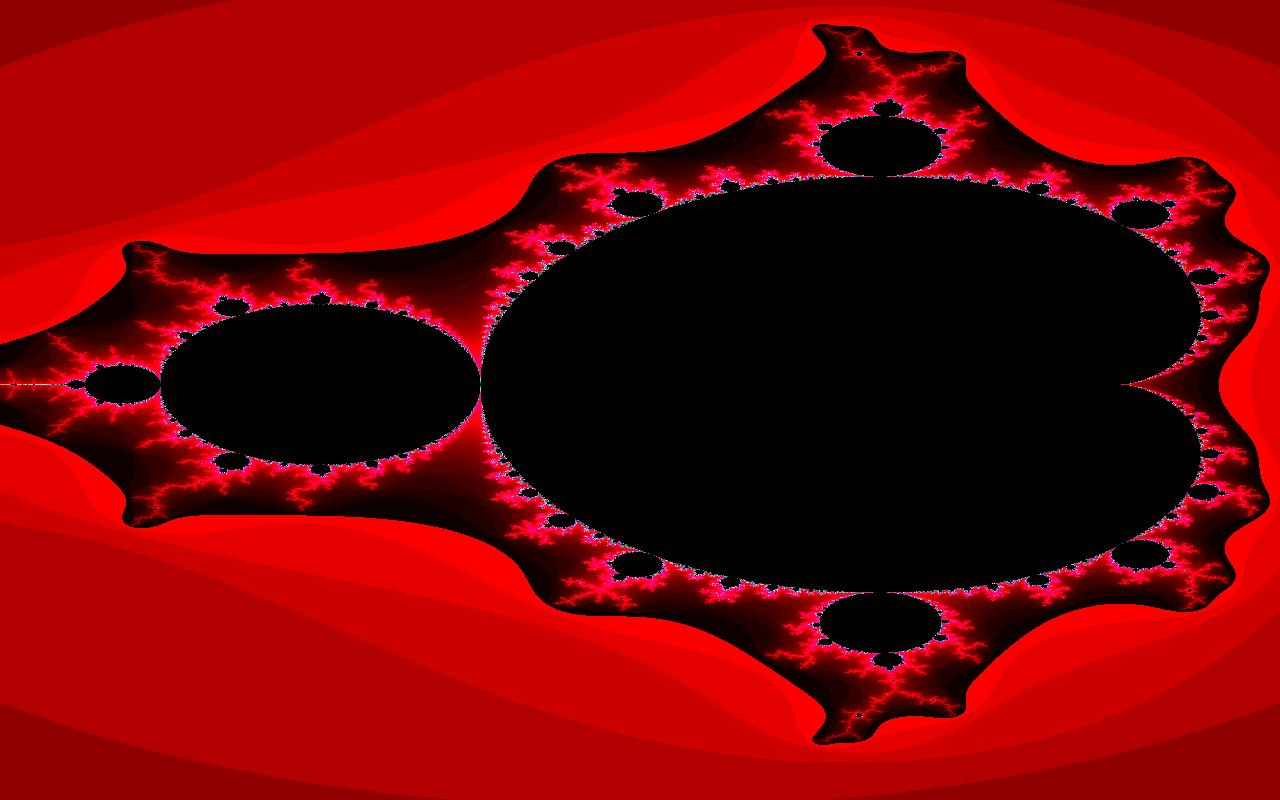
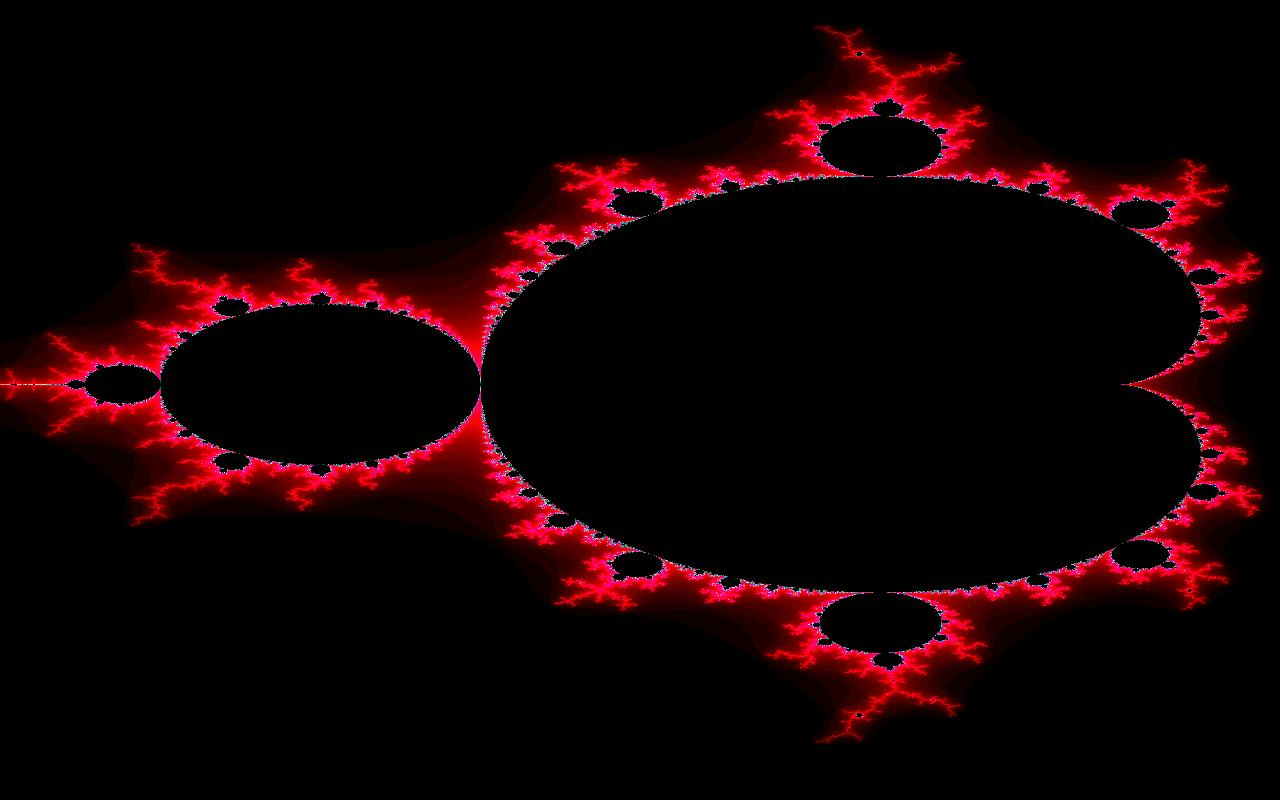
iug

diff --git a/src/main/java/com/example/App.java b/src/main/java/com/example/App.java
@@ -1,15 +1,9 @@
 package com.example;
 
 import java.time.Duration;
-import java.time.Instant;
-import java.time.temporal.ChronoUnit;
-import java.util.ArrayList;
-import java.util.List;
-import java.util.concurrent.Future;
 import java.util.concurrent.TimeUnit;
 import java.time.LocalTime;
 import java.time.format.DateTimeFormatter;
-import java.util.concurrent.Executor;
 import java.util.concurrent.ExecutorService;
 import java.util.concurrent.Executors;
 
@@ -34,9 +28,9 @@ public final class App {
     private static final int CONCURRENT_THREADS = 4;
     
 
-    private static final double STARTX = -1.5;
-    private static final double ENDX = 0.5;
-    private static final double STARTY = -1.2;
+    private static final double START_X = -1.5;
+    private static final double END_X = 0.5;
+    private static final double START_Y = -1.2;
 
     private static int img_width = WIDTH; 
     private static int img_height = THREADS * HEIGHT;
@@ -50,38 +44,45 @@ public final class App {
         int [][] iterations = new int[img_width][img_height];
         
 
-        double width = ENDX - STARTX;
+        double width = END_X - START_X;
         double height = width * ((double)HEIGHT/WIDTH) * 2.0;
 
         LocalTime startTime = LocalTime.now();
         DateTimeFormatter formatter = DateTimeFormatter.ofPattern("hh:mm:ss");
         System.out.println("Start time : " + startTime.format(formatter));
 
-        ExecutorService executer = Executors.newFixedThreadPool(CONCURRENT_THREADS);
+        ExecutorService executor = Executors.newFixedThreadPool(CONCURRENT_THREADS);
 
-        Mandelbrot mandie;
+
+
+        Mandelbrot mandelbrotSlice;        
         for (int thread = 0; thread < THREADS; thread++) {
-            double threadStartY = STARTY + thread * height;
-            double threadEndY = STARTY + (thread+1) * height;
-            mandie = new Mandelbrot(WIDTH, HEIGHT, thread, STARTX, ENDX, threadStartY, threadEndY, iterations);
-            //mandie.run();
-            executer.execute(mandie);
+            double threadSTART_Y = START_Y + thread * height;
+            double threadEndY = START_Y + (thread+1) * height;
+            mandelbrotSlice = new Mandelbrot(WIDTH, HEIGHT, thread, START_X, END_X, threadSTART_Y, threadEndY, iterations);            
+            executor.execute(mandelbrotSlice);
         }
 
-        executer.shutdown();
-        try{
-            executer.awaitTermination(30, TimeUnit.SECONDS);
+        executor.shutdown();
+        try {
+            boolean terminated = executor.awaitTermination(30, TimeUnit.SECONDS);
+            if (!terminated) {
+                System.out.println("Warning: Executor did not terminate within the timeout. Forcing shutdown.");
+                executor.shutdownNow();
+            }
         } catch (InterruptedException e) {
+            System.out.println("Executor termination interrupted.");
             e.printStackTrace();
+            Thread.currentThread().interrupt();
         }
 
         System.out.println("Done");
 
 
 
-        mandelbrotColouringRed(iterations);
+        mandelbrotColoringRed(iterations);
 
-        ImageMaker img = new ImageMaker(img_width, img_height, r,g,b);
+        new ImageMaker(img_width, img_height, r,g,b);
 
     
         LocalTime endTime = LocalTime.now();        
@@ -116,7 +117,7 @@ public final class App {
     }
 
     
-    public static void mandelbrotColouringRed(int [][] iterations) {
+    public static void mandelbrotColoringRed(int [][] iterations) {
         int maxIterations = calcMax(iterations);
 
         for (int x=0; x<img_width; x++){
@@ -127,7 +128,7 @@ public final class App {
                     g[x][y] = 0;
                     b[x][y] = 0;
                 }
-                if (factor<0.05){
+                else if (factor<0.05){
                     double intensity = Math.round(255.0 * ((factor-0.025)*40.0));
                     r[x][y] = (int)intensity;
                     g[x][y] = 0;

diff --git a/src/main/java/com/example/ImageMaker.java b/src/main/java/com/example/ImageMaker.java
@@ -1,12 +1,8 @@
 package com.example;
 
 import java.awt.image.BufferedImage;
-import java.util.*;
-import java.lang.*;
 import java.io.*;
-import java.util.Iterator;
 import javax.imageio.*;
-import javax.imageio.stream.*;
 
 public class ImageMaker {
 

diff --git a/src/main/java/com/example/Mandelbrot.java b/src/main/java/com/example/Mandelbrot.java
@@ -1,7 +1,5 @@
 package com.example;
 
-import java.util.ArrayList;
-import java.util.List;
 import java.time.Duration;
 import java.time.LocalTime;
 import java.time.format.DateTimeFormatter;
